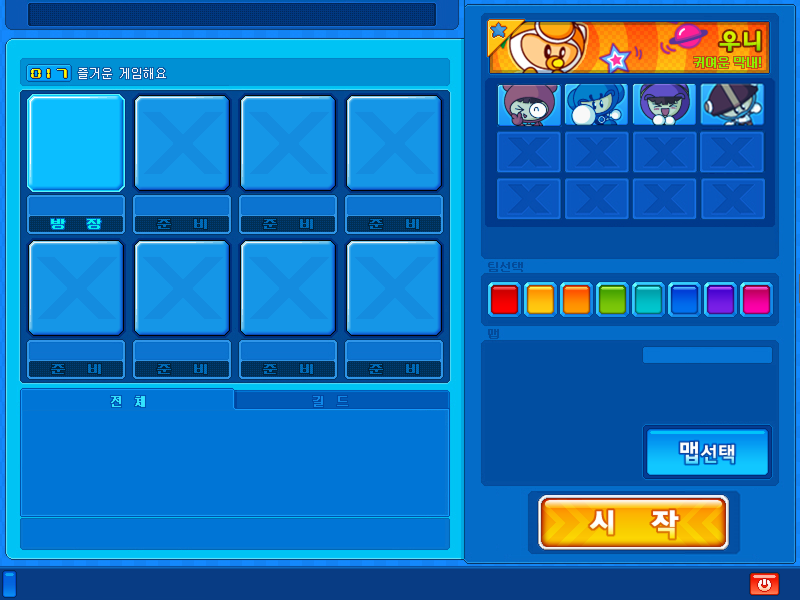
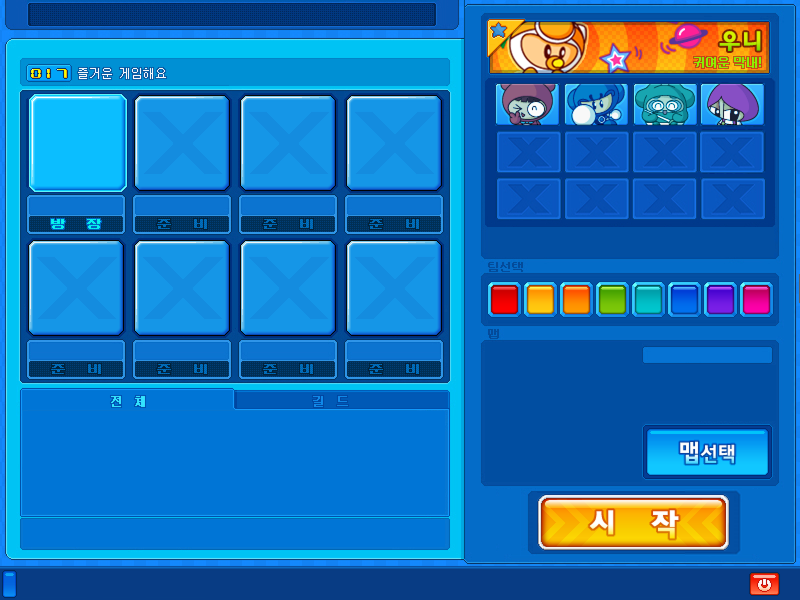
리소스 수정, 캐릭터 초기값 수정 (물풍선1000개->1-2개)

diff --git a/sfml-crazyarcade/CharacterStats.h b/sfml-crazyarcade/CharacterStats.h
@@ -21,8 +21,8 @@ struct PlayerStats
 const std::unordered_map<CharacterID, PlayerStats> CharacterTable =
 {
 	// LSY: default speed (100.f) 
-	{CharacterID::DAO,   {1000,10,1,7,150.f,500.f}},
-	{CharacterID::BAZZI, {1000,6,1,7,190.f,700.f}},
-	{CharacterID::CAPPI, {1000,6,2,7,170.f,600.f}},
-	{CharacterID::MARID, {1000,6,1,7,170.f,600.f}}
+	{CharacterID::DAO,   {1,10,1,7,150.f,500.f}},
+	{CharacterID::BAZZI, {1,6,1,7,190.f,700.f}},
+	{CharacterID::CAPPI, {1,6,2,7,170.f,600.f}},
+	{CharacterID::MARID, {2,6,1,7,170.f,600.f}}
 };

diff --git a/sfml-crazyarcade/Framework/SceneMgr.h b/sfml-crazyarcade/Framework/SceneMgr.h
@@ -9,7 +9,7 @@ protected:
 
 	std::vector<Scene*> scenes;
 
-	SceneIds startScene = SceneIds::MapEditor;
+	SceneIds startScene = SceneIds::Intro;
 	SceneIds currentScene = SceneIds::None;
 	SceneIds nextScene = SceneIds::None;
 

diff --git a/sfml-crazyarcade/SceneGame.cpp b/sfml-crazyarcade/SceneGame.cpp
@@ -289,7 +289,7 @@ void SceneGame::Enter()
 
 	ui->Reset();
 	popUi->Reset();
-
+	SOUND_MGR.PlaySfx("sounds/Game_Start.mp3");
 	isPlayingResultSound = false;
 }
 
